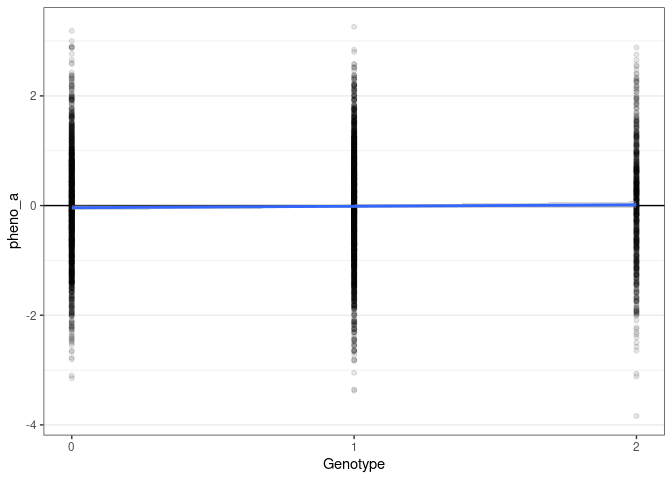
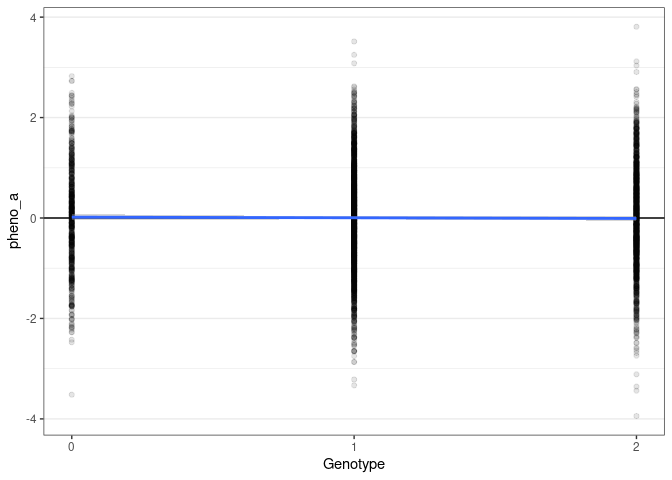
Rerun

diff --git a/genetic_epidemiology/gwas_introduction_association.md b/genetic_epidemiology/gwas_introduction_association.md
@@ -41,7 +41,7 @@ system, use the `ìnstall_packages` command to install them.
     # Resolve conflicting function names
     conflict_prefer("filter", "dplyr")
 
-    ## [conflicted] Will prefer dplyr::filter over any other package
+    ## [conflicted] Will prefer dplyr::filter over any other package.
 
     # Set the theme for plots
     theme_set(theme_bw(base_size = 13))
@@ -49,7 +49,7 @@ system, use the `ìnstall_packages` command to install them.
 ## Load data
 
 Load the example data available at this
-[link](https://drive.google.com/file/d/1hdESYbyRrfBZALTgV3h4TSJ82Od-bShv/view?usp=sharing).
+[link](https://drive.google.com/file/d/1O1rBQ1ldOEyCp1yzh2w9hIkGFCrkRZlN/view?usp=drive_link).
 
     file_path <- "/home/marc/Projects/tutorials/data/lm_example.gz"
 
@@ -103,19 +103,19 @@ of participants with a given genotype.
       glue("# Number of participants for a given genotype for the variant at position {sampled_position}")
     )
 
-    ## # Number of participants for a given genotype for the variant at position 37611987
+    ## # Number of participants for a given genotype for the variant at position 37993810
 
     table(pos_data$genotype)
 
     ## 
     ##    0    1    2 
-    ## 1406 1959  635
+    ##  661 1962 1377
 
-Estimate the alternative allele frequency: 40.4 %.
+Estimate the alternative allele frequency: 59 %.
 
 Load summary information on the variants in one chromosome of MoBa
 available at this
-[link](https://drive.google.com/file/d/1yOumgGsa8u3w0C6F58MQAyQdhL756ChJ/view?usp=sharing).
+[link](https://drive.google.com/file/d/18XqRm2PzI1JIUKB75ePw8aHV4CfNeGTR/view?usp=drive_link).
 
     file_path <- "/home/marc/Projects/tutorials/data/22-markerinfo.gz"
 
@@ -290,7 +290,7 @@ between `genotype` and `pheno_a`.
       glue("# Association results at position {sampled_position}")
     )
 
-    ## # Association results at position 37611987
+    ## # Association results at position 37993810
 
     summary(association_results)
 
@@ -300,16 +300,16 @@ between `genotype` and `pheno_a`.
     ## 
     ## Residuals:
     ##     Min      1Q  Median      3Q     Max 
-    ## -3.8509 -0.6752  0.0062  0.6743  3.2734 
+    ## -3.9335 -0.6815 -0.0018  0.6830  3.8171 
     ## 
     ## Coefficients:
     ##             Estimate Std. Error t value Pr(>|t|)
-    ## (Intercept) -0.03972    0.02451  -1.621    0.105
-    ## genotype     0.02664    0.02311   1.153    0.249
+    ## (Intercept)  0.01750    0.03170   0.552    0.581
+    ## genotype    -0.01328    0.02319  -0.572    0.567
     ## 
-    ## Residual standard error: 1.005 on 3998 degrees of freedom
-    ## Multiple R-squared:  0.0003323,  Adjusted R-squared:  8.225e-05 
-    ## F-statistic: 1.329 on 1 and 3998 DF,  p-value: 0.2491
+    ## Residual standard error: 1.014 on 3998 degrees of freedom
+    ## Multiple R-squared:  8.196e-05,  Adjusted R-squared:  -0.0001681 
+    ## F-statistic: 0.3277 on 1 and 3998 DF,  p-value: 0.567
 
 *How do you interpret these results? Is there a significant
 association?*
@@ -423,10 +423,10 @@ Run the association for all variants and all phenotypes.
       
     }
 
-    ## 2022-05-31 09:02:36 - Processing pheno_a
-    ## 2022-05-31 09:03:14 - Processing pheno_b
-    ## 2022-05-31 09:03:54 - Processing pheno_c
-    ## 2022-05-31 09:04:34 - Processing pheno_d
+    ## 2023-07-25 09:53:03 - Processing pheno_a
+    ## 2023-07-25 09:53:37 - Processing pheno_b
+    ## 2023-07-25 09:54:10 - Processing pheno_c
+    ## 2023-07-25 09:54:45 - Processing pheno_d
 
     end_time = Sys.time()
 
@@ -435,7 +435,7 @@ Run the association for all variants and all phenotypes.
     processing_time = difftime(end_time, start_time)
 
 The analysis of these 1756 variants and 4 phenotypes using 15 threads
-was conducted in 2.6 mins.
+was conducted in 2.3 mins.
 
 *How long would it take to process one phenotype over the entire genome?
 How can we speed up this process?*
@@ -488,7 +488,7 @@ variant of strongest association.
       glue("# Association results at position {sampled_position}")
     )
 
-    ## # Association results at position 37611987
+    ## # Association results at position 37993810
 
     summary(association_results)
 
@@ -722,10 +722,10 @@ Include age, sex, batches, and ten PCs to the model and rerun.
       
     }
 
-    ## 2022-05-31 09:05:52 - Processing pheno_a
-    ## 2022-05-31 09:06:34 - Processing pheno_b
-    ## 2022-05-31 09:07:19 - Processing pheno_c
-    ## 2022-05-31 09:08:01 - Processing pheno_d
+    ## 2023-07-25 09:56:05 - Processing pheno_a
+    ## 2023-07-25 09:56:44 - Processing pheno_b
+    ## 2023-07-25 09:57:25 - Processing pheno_c
+    ## 2023-07-25 09:58:05 - Processing pheno_d
 
     end_time = Sys.time()
 
@@ -734,7 +734,7 @@ Include age, sex, batches, and ten PCs to the model and rerun.
     processing_time = difftime(end_time, start_time)
 
 The analysis of these 1756 variants and 4 phenotypes using 15 threads
-was conducted in 2.9 mins.
+was conducted in 2.7 mins.
 
 Plot again the p-value per position.
 
@@ -779,7 +779,7 @@ association.
       glue("# Association results at position {sampled_position}")
     )
 
-    ## # Association results at position 37611987
+    ## # Association results at position 37993810
 
     summary(association_results)
 
